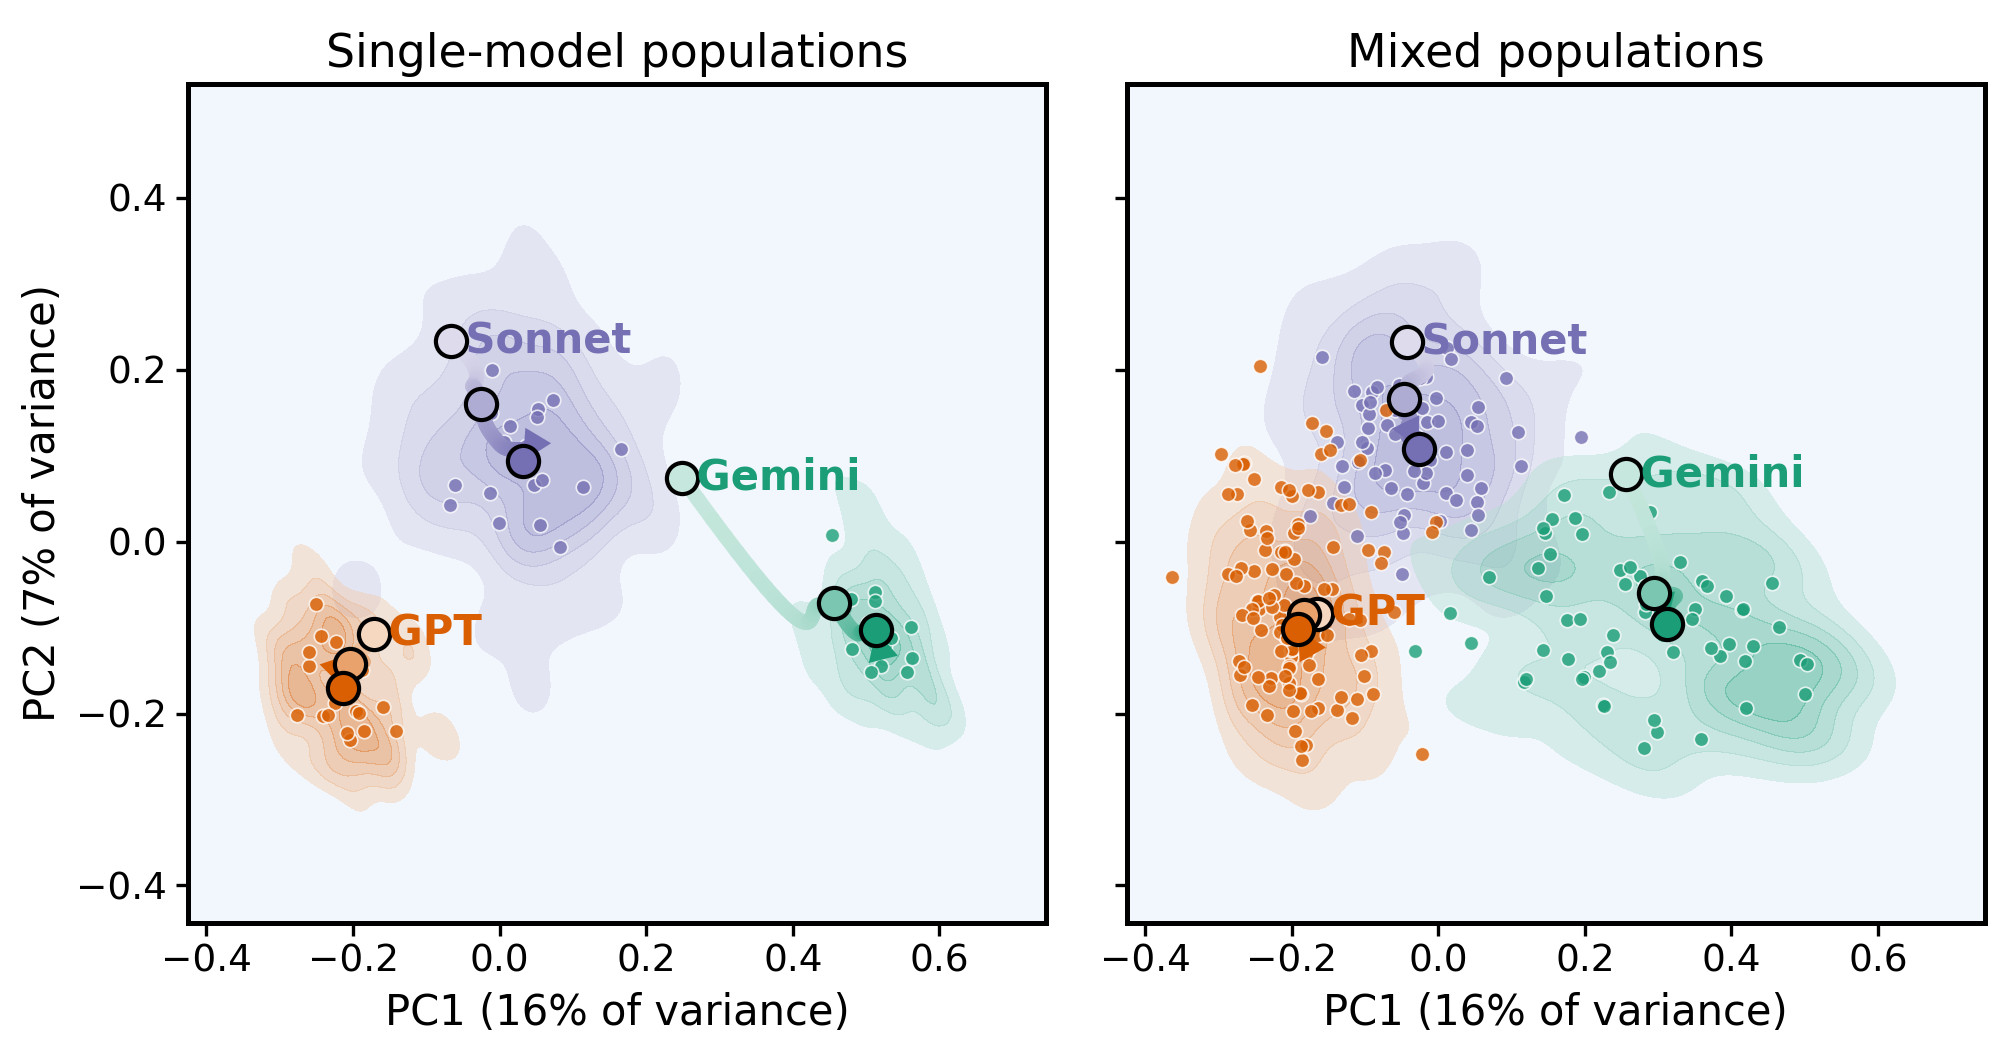
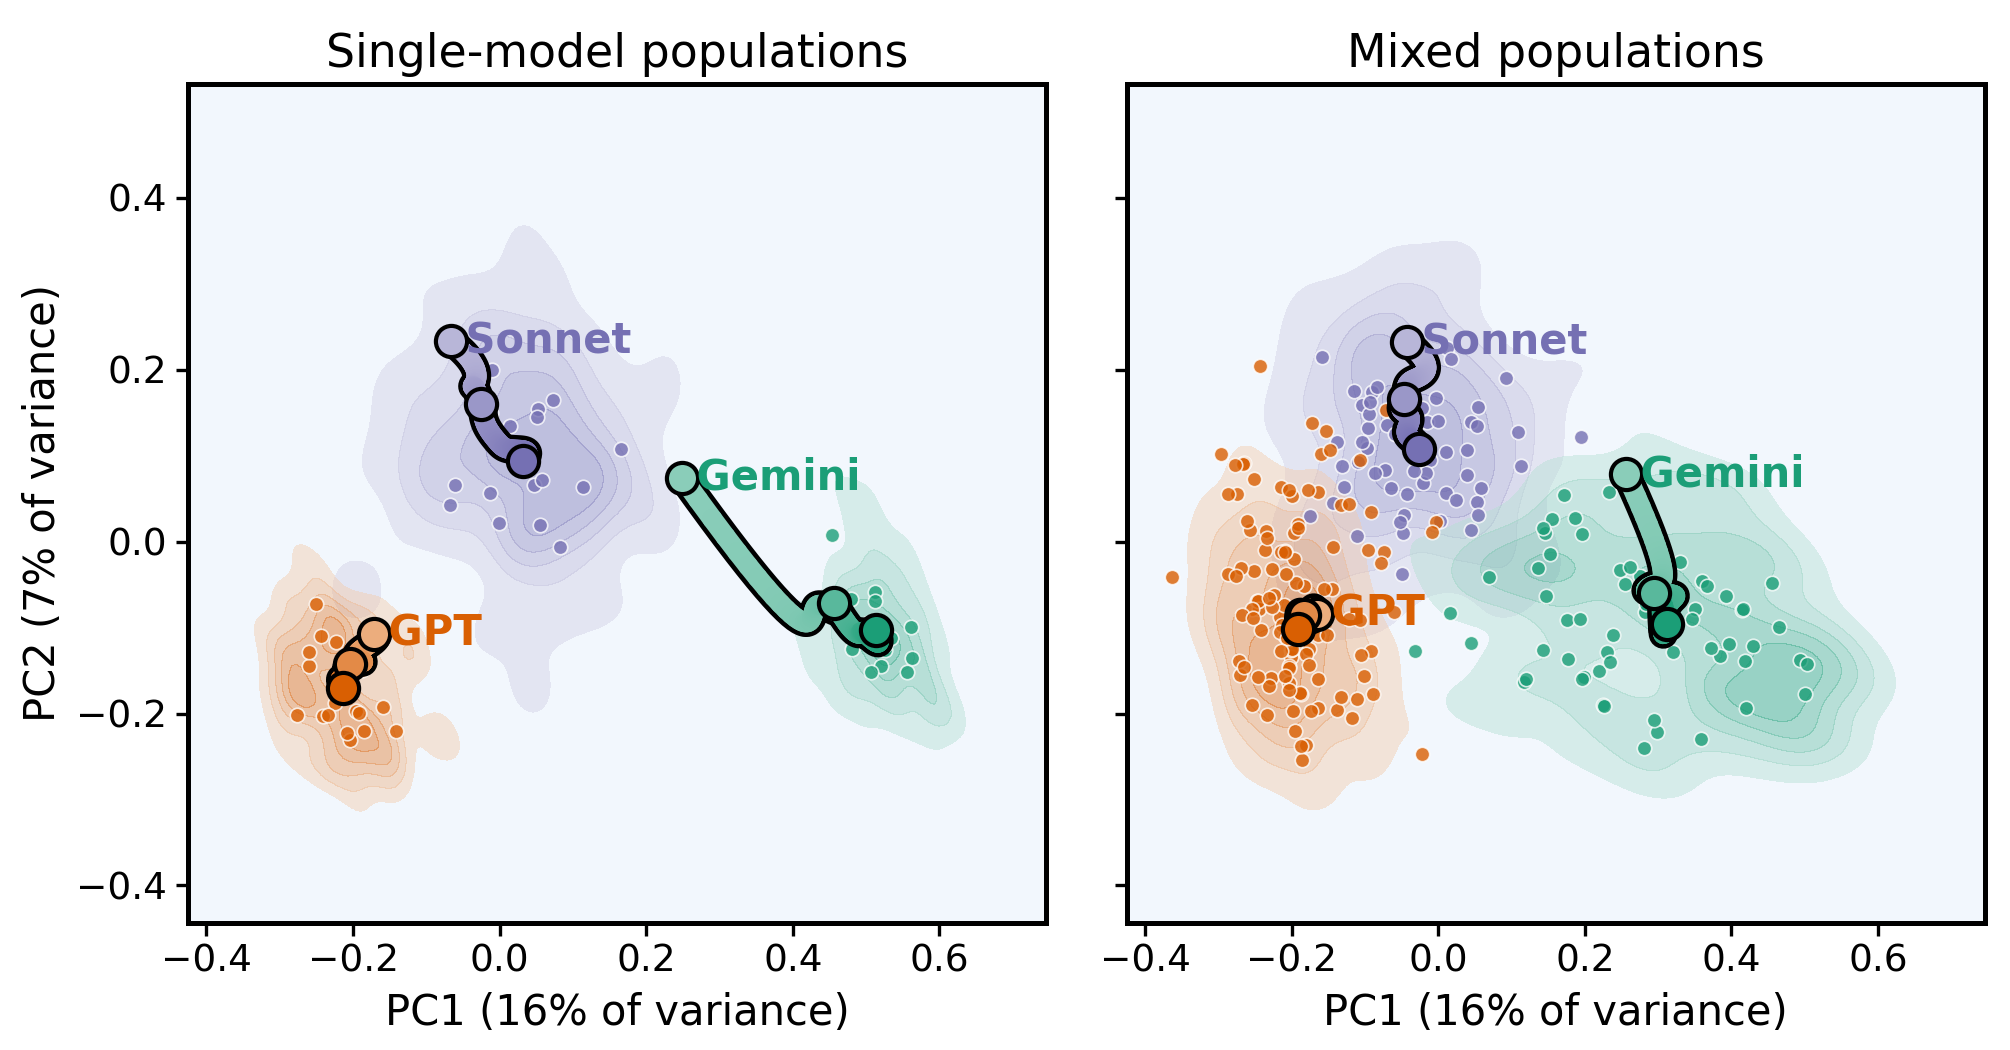
Myth trajectory maps: outlined, thicker family paths; drop misleading arrowheads

diff --git a/analyses/plot_myth_trajectory_panel.py b/analyses/plot_myth_trajectory_panel.py
@@ -33,6 +33,7 @@ from matplotlib.colors import LinearSegmentedColormap  # noqa: E402
 from scipy.interpolate import make_interp_spline  # noqa: E402
 
 GROUP = {8: "populations", 2: "dyads"}
+PATH_LW = 2.4
 
 
 def main() -> None:
@@ -68,13 +69,14 @@ def main() -> None:
             path = f.groupby("round")[["x", "y"]].mean().reindex(rounds)
             sx = make_interp_spline(rounds, path.x, k=3)(t)
             sy = make_interp_spline(rounds, path.y, k=3)(t)
-            for a in range(len(t) - 1):
-                ax.plot(sx[a:a + 2], sy[a:a + 2], color=shade(color, a / len(t)), lw=1.8,
-                        solid_capstyle="round", zorder=4)
-            ax.annotate("", xy=(sx[-1], sy[-1]), xytext=(sx[-8], sy[-8]), zorder=5,
-                        arrowprops=dict(arrowstyle="-|>", color=color, lw=0, mutation_scale=9))
+            ax.plot(sx, sy, color="k", lw=PATH_LW + 1.1, solid_capstyle="round", zorder=4)  # outline
+            for a in range(len(t) - 1):  # light -> dark = round 1 -> 10, starting darker than shade(.., 0)
+                ax.plot(sx[a:a + 2], sy[a:a + 2], color=shade(color, 0.35 + 0.65 * a / len(t)), lw=PATH_LW,
+                        solid_capstyle="round", zorder=4.5)
+            # no arrowhead: the spline's last few points wiggle, so a head points the wrong way;
+            # light -> dark and the round 1/5/10 dots give the direction
             for r in MARK_ROUNDS:
-                ax.scatter(*path.loc[r], s=14, color=shade(color, (r - 1) / (rounds[-1] - 1)),
+                ax.scatter(*path.loc[r], s=14, color=shade(color, 0.35 + 0.65 * (r - 1) / (rounds[-1] - 1)),
                            edgecolor="k", lw=0.5, zorder=6)
             ax.text(*path.loc[1], f" {fam}", fontsize=5, color=color, fontweight="bold", zorder=7, va="center")
         kind = "Single-model" if not mixed else "Mixed"
